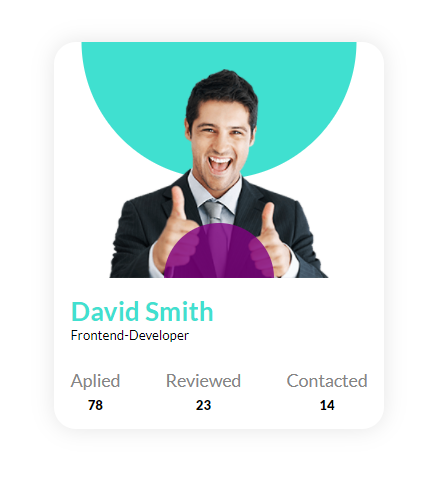
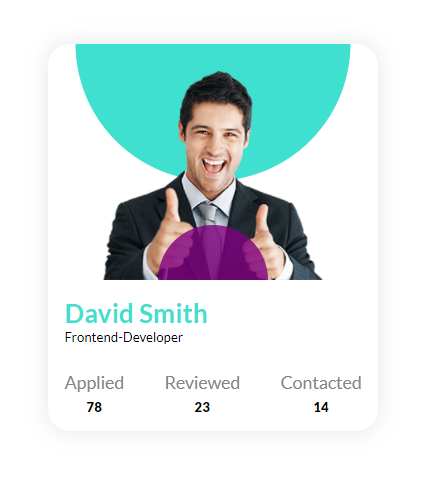
resubida de imagen

diff --git a/index.html b/index.html
@@ -104,7 +104,7 @@
                 </div>
                 <div class="social-user">
                     <div>
-                        <p>Aplied</p>
+                        <p>Applied</p>
                         <p>78</p>
                     </div>
                     <div>
